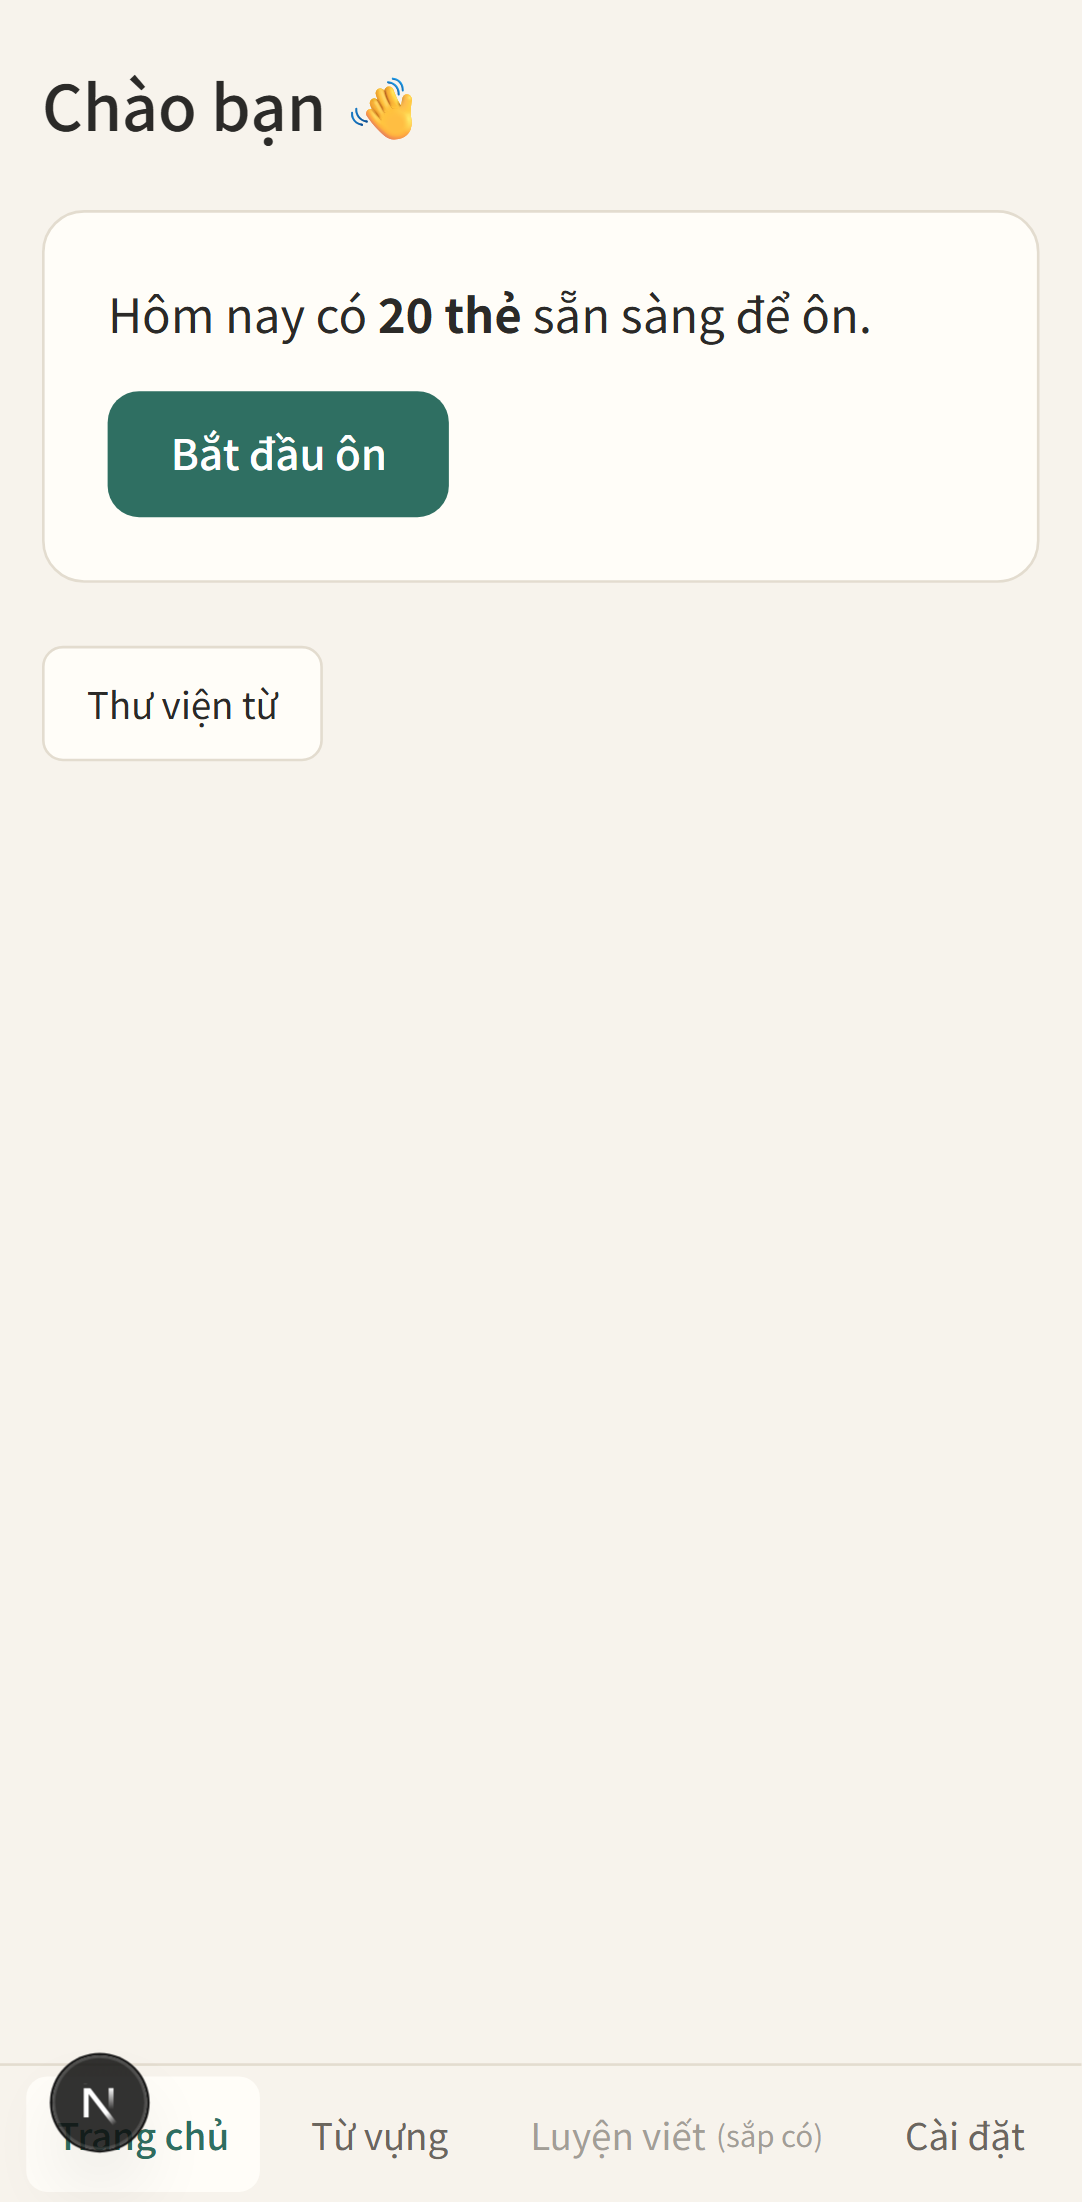
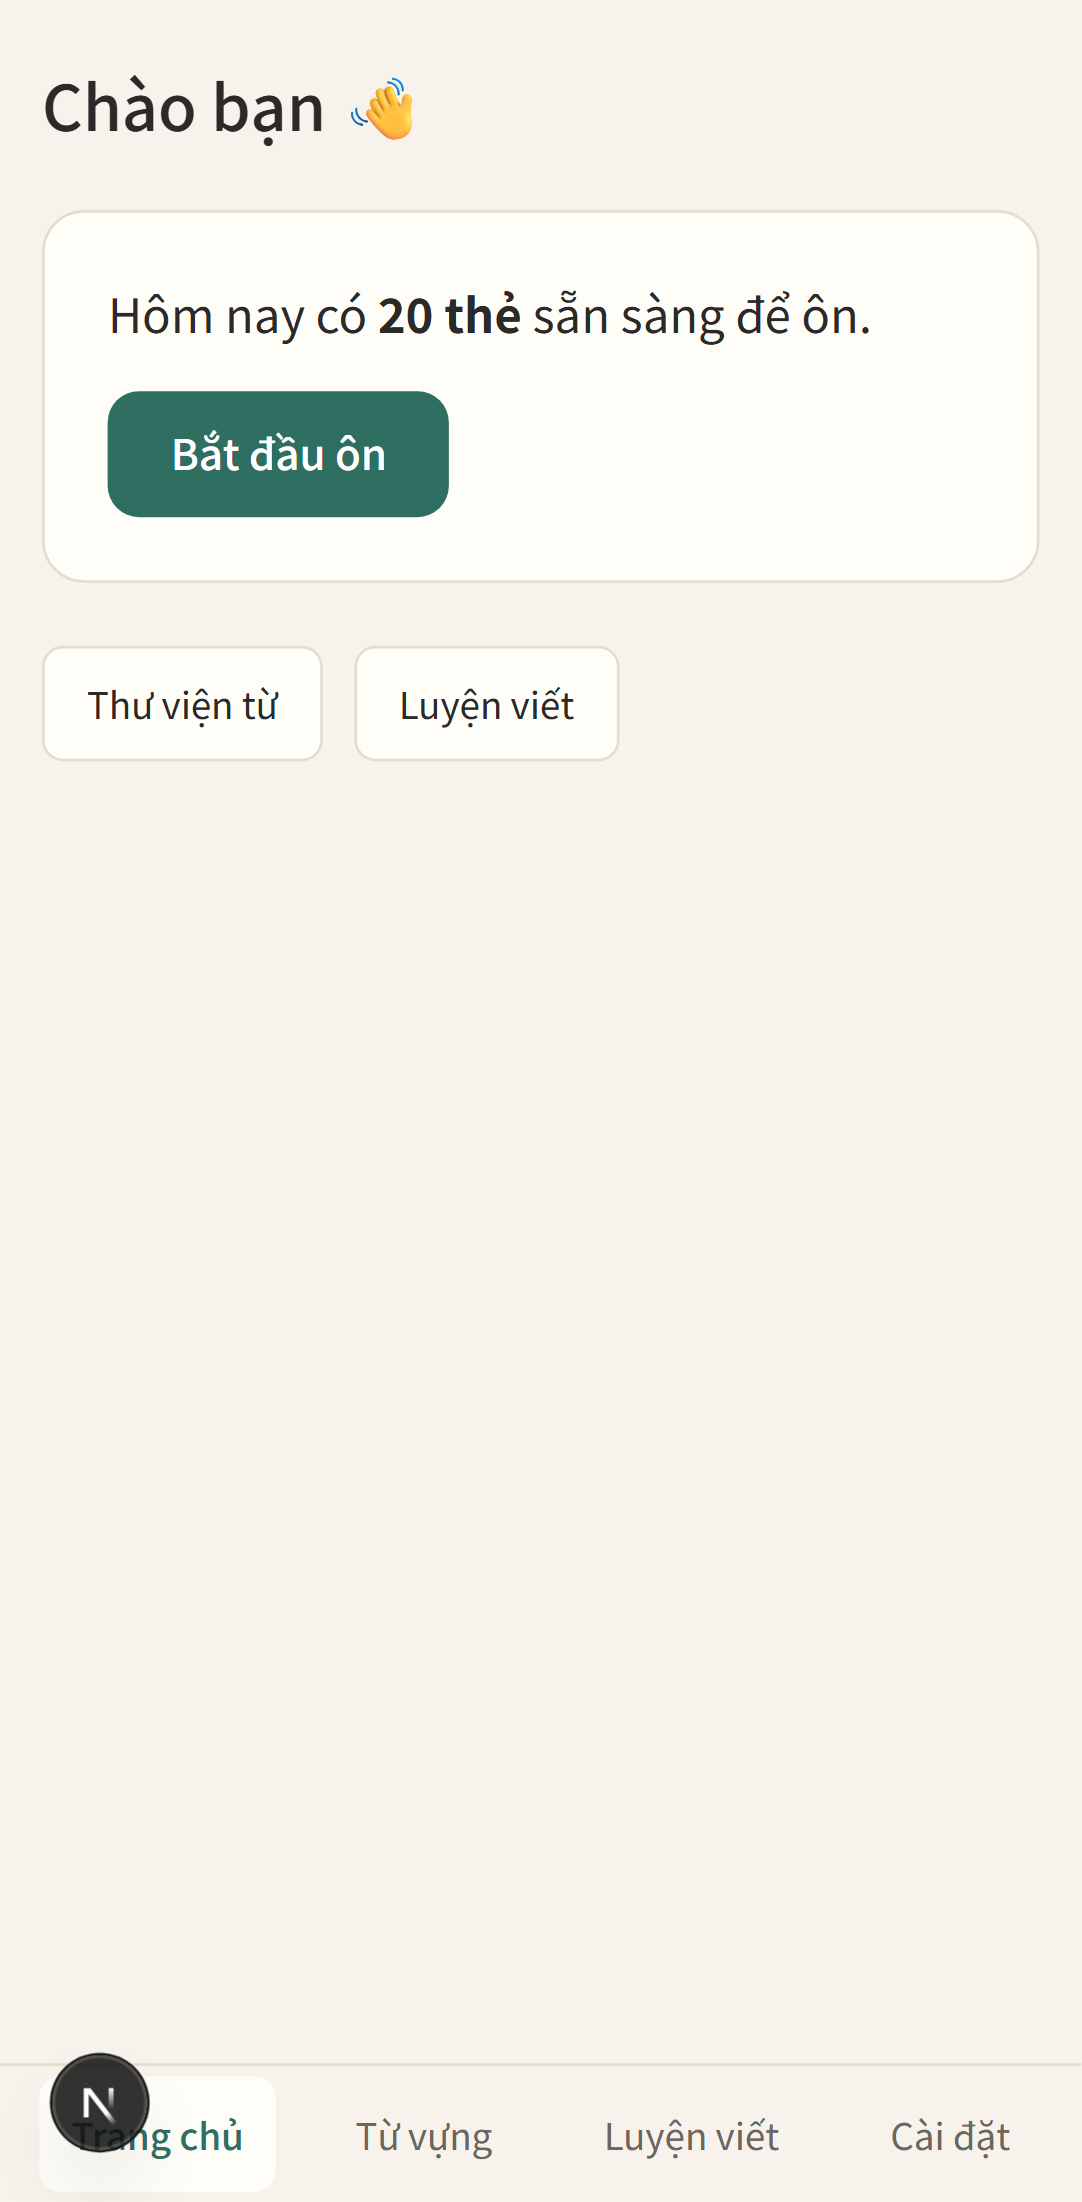
docs: record task 10 status

diff --git a/docs/features/study/phase2-writing-practice/status.md b/docs/features/study/phase2-writing-practice/status.md
@@ -9,8 +9,8 @@
 | Trạng thái | 🟡 IN_PROGRESS |
 | Yêu cầu đang làm | CR-002 — Luyện viết: sắp xếp câu |
 | Bước Superpowers | writing-plans xong → chờ người dùng duyệt plan → executing-plans |
-| Task đang làm | T-002.10 |
-| **Bước tiếp theo** | T-002.10 hub, quy tắc, câu sai, điều hướng |
+| Task đang làm | T-002.11 |
+| **Bước tiếp theo** | T-002.11 e2e + xác minh cuối |
 | Branch | feat/phase1-foundation (làm tiếp trên nhánh này) |
 | Cập nhật lần cuối | 2026-11-18 |
 | Ghi chú dở dang | Chưa có code |
@@ -36,7 +36,7 @@
 | T-002.7 | Bảng sắp xếp câu (chạm + bàn phím) | ✅ DONE | SentenceBoard.test 8 ca pass; bỏ qua Playwright: chưa gắn vào trang (làm ở T-002.9) | |
 | T-002.8 | Kéo thả @dnd-kit | ✅ DONE | move.test 3 + SentenceBoard.test 8 pass (chạm vẫn hoạt động); Playwright kéo thả kiểm ở T-002.9/11 | |
 | T-002.9 | Phiên luyện + phản hồi + ôn câu sai | ✅ DONE | WritingSession.test 8 ca pass; tsc/lint ok; Playwright e2e gộp ở T-002.11 (trang /writing/practice đã có) | |
-| T-002.10 | Trang Luyện viết, quy tắc, lỗi hay mắc, điều hướng | ⬜ TODO | | |
+| T-002.10 | Trang Luyện viết, quy tắc, lỗi hay mắc, điều hướng | ✅ DONE | vitest 166/166, tsc/lint ok; Playwright shell+home pass (desktop+mobile); e2e luồng viết ở T-002.11 | |
 | T-002.11 | E2E, ảnh chụp, kiểm tra cuối | ⬜ TODO | | |
 
 ## Kết quả test gần nhất

diff --git a/docs/features/study/phase2-writing-practice/design.md b/docs/features/study/phase2-writing-practice/design.md
@@ -57,3 +57,4 @@ Vitest: bộ chấm, schema nội dung, hàng đợi câu sai, thống kê lỗi
 | 7 | src/components/writing/SentenceBoard.tsx: khay + dòng đáp án, phím 1–9/Backspace/Enter |
 | 8 | src/lib/writing/move.ts (moveChunk); SentenceBoard.tsx: DndContext + SortableContext, Space nhấc, thông báo tiếng Việt |
 | 9 | WritingSession.tsx, FeedbackPanel.tsx, app/writing/practice/page.tsx (ngoài (main), ?mode=wrong|practice) |
+| 10 | Trang /writing, /writing/rules, /writing/rules/[id], /writing/mistakes; WritingHome/RuleView/MistakesView; AppShell bật Luyện viết; HomeDashboard lối tắt; practice?rule= |
